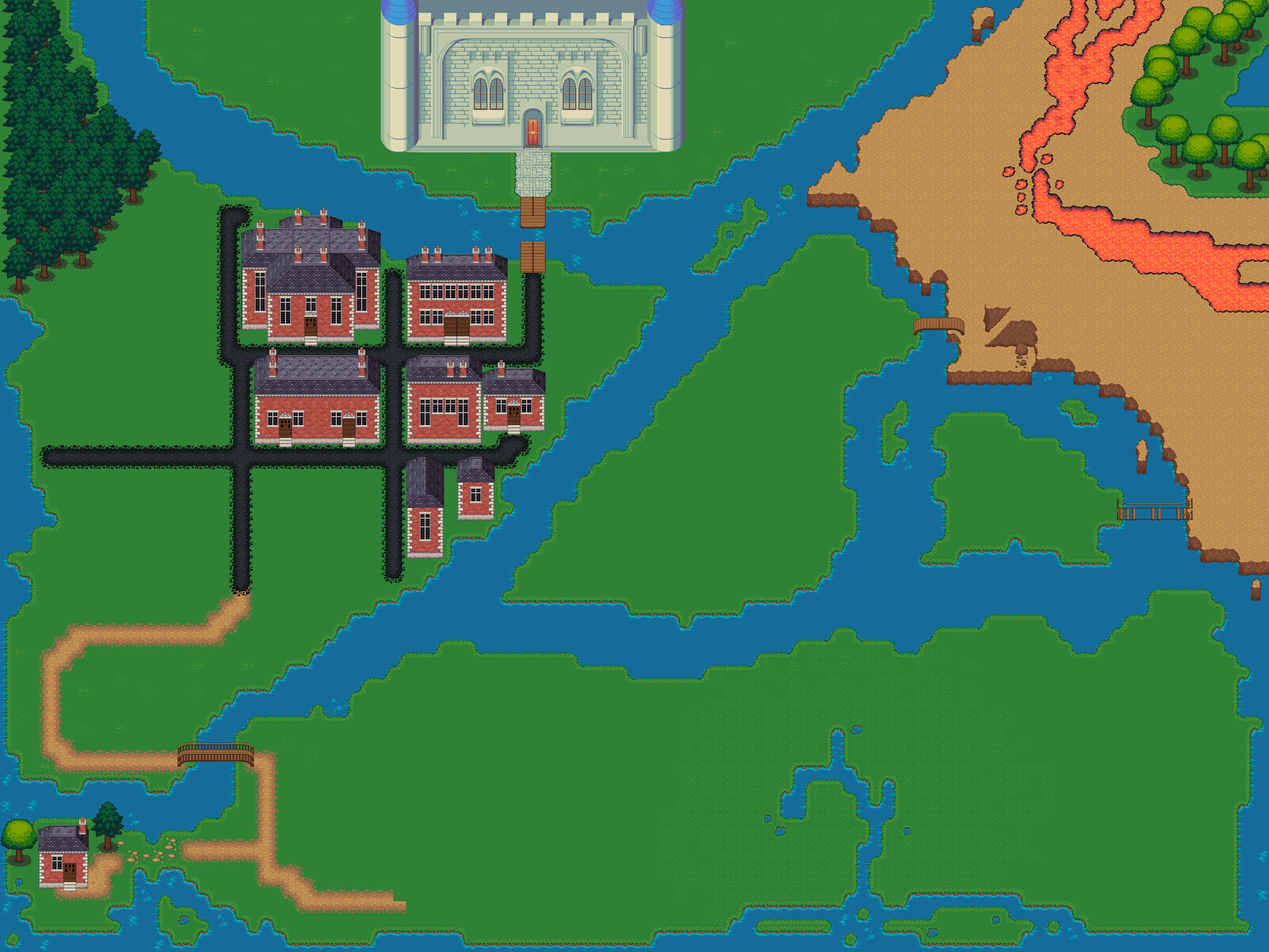
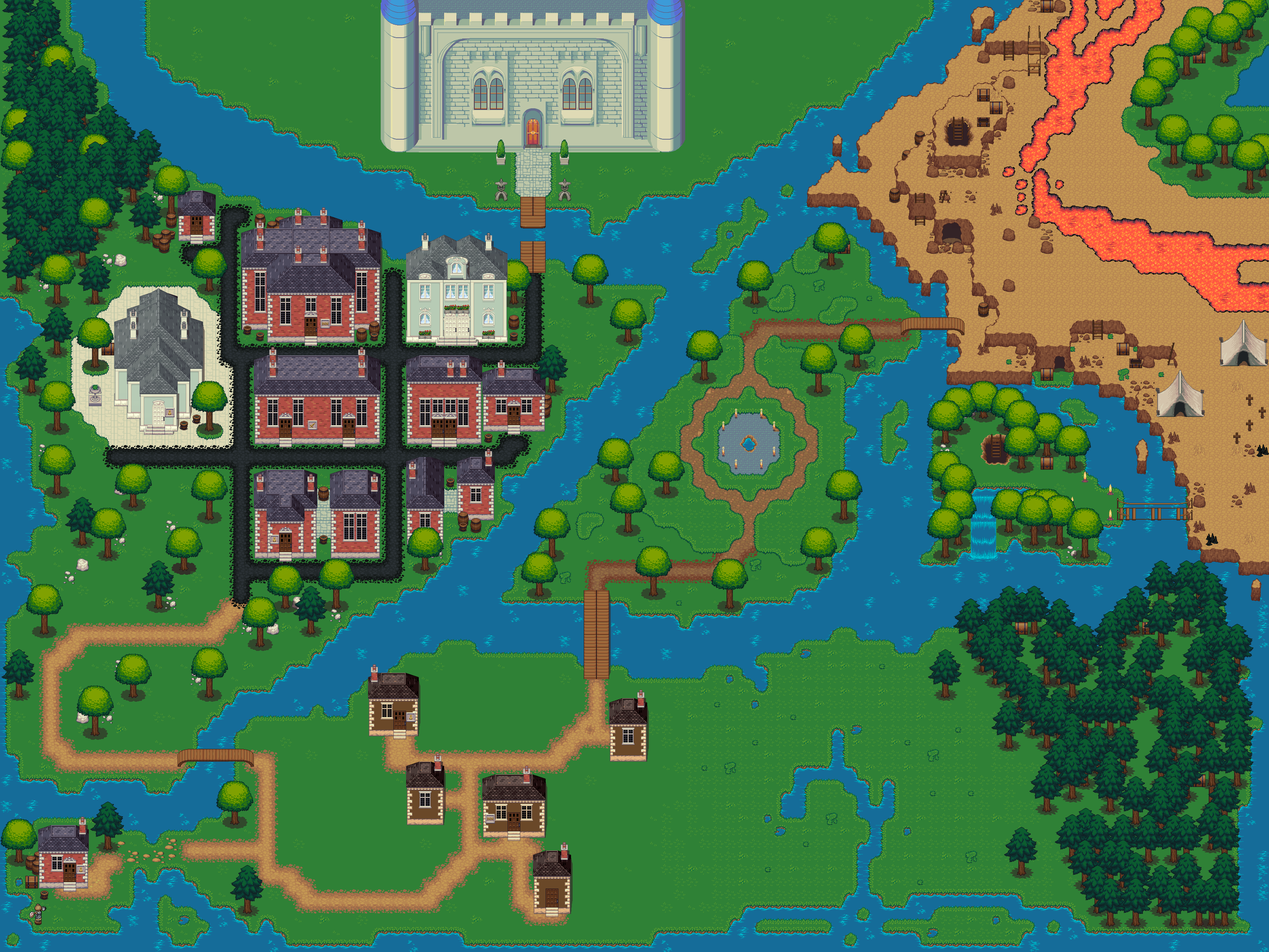
Map updates integrated. See details of commit.

diff --git a/public/Preloader.js b/public/Preloader.js
@@ -11,7 +11,7 @@ RubyQuest.Preloader.prototype = {
 		this.preloadBar.anchor.setTo(0.5,0.5);
 		this.load.setPreloadSprite(this.preloadBar);
 		this.add.text(this.world.centerX-50, this.world.centerY+40, "loading...", { font: "35px Arial", fill: "#fff", align: "center" });
-		this.load.image('map', 'assets/rqmap.png');
+		this.load.image('map', 'assets/rqmap-ol.png');
 		this.load.spritesheet('hero', 'assets/walk.png', 63, 62);
 		this.load.spritesheet('herobw', 'assets/walkbw.png', 63, 62);
 		this.load.spritesheet('herofight', 'assets/herofight.png', 190, 104);
